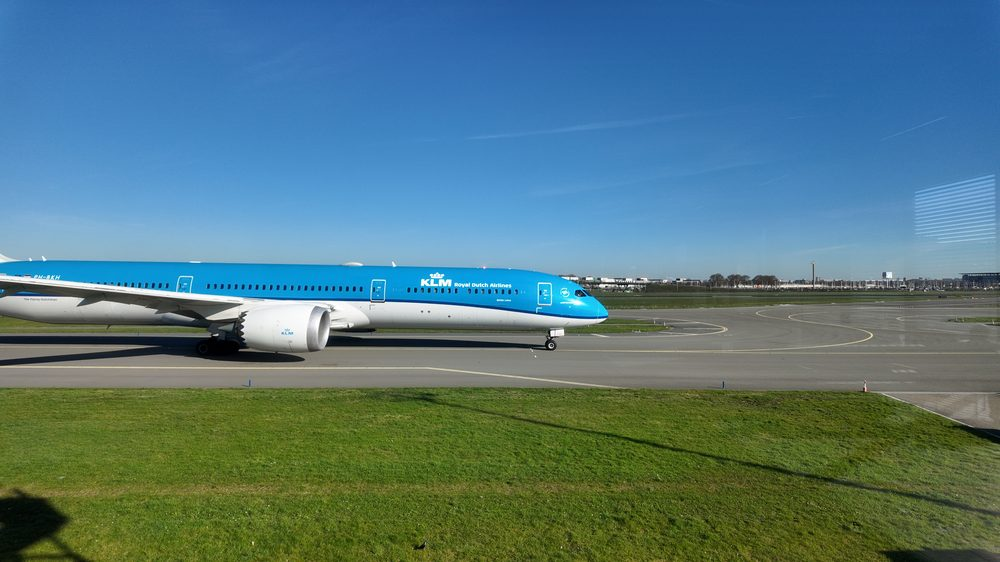
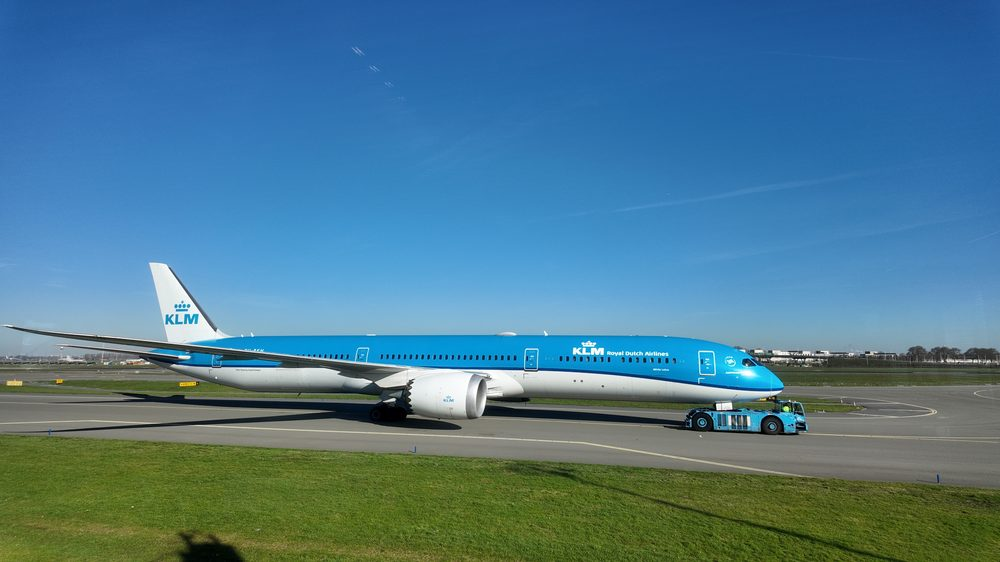
Swap in a clearer KLM photo, correct caption to reflect it being towed rather than taxiing

diff --git a/blogs/cheap-flights-europe-to-india/index.html b/blogs/cheap-flights-europe-to-india/index.html
@@ -223,8 +223,8 @@
   </div>
 
   <h2 id="klm-airfrance">KLM and Air France</h2>
-  <img src="klm-schiphol.jpg" alt="KLM Boeing 787 taxiing at Amsterdam Schiphol Airport" style="width:100%; border-radius:10px; display:block;">
-  <span class="photo-credit" style="margin-bottom:0.8rem;">Photo: Nabeel Nisar Bhat. KLM 787 (PH-BKH) taxiing at Schiphol, March 2026.</span>
+  <img src="klm-schiphol.jpg" alt="KLM Boeing 787 being towed at Amsterdam Schiphol Airport" style="width:100%; border-radius:10px; display:block;">
+  <span class="photo-credit" style="margin-bottom:0.8rem;">Photo: Nabeel Nisar Bhat. A KLM 787 being towed to its gate at Schiphol, March 2026.</span>
   <div class="stat-strip">
     <div class="stat-item"><span class="stat-label">KLM flight</span><span class="stat-value">KL871 / KL872</span></div>
     <div class="stat-item"><span class="stat-label">Route</span><span class="stat-value">AMS → DEL</span></div>
